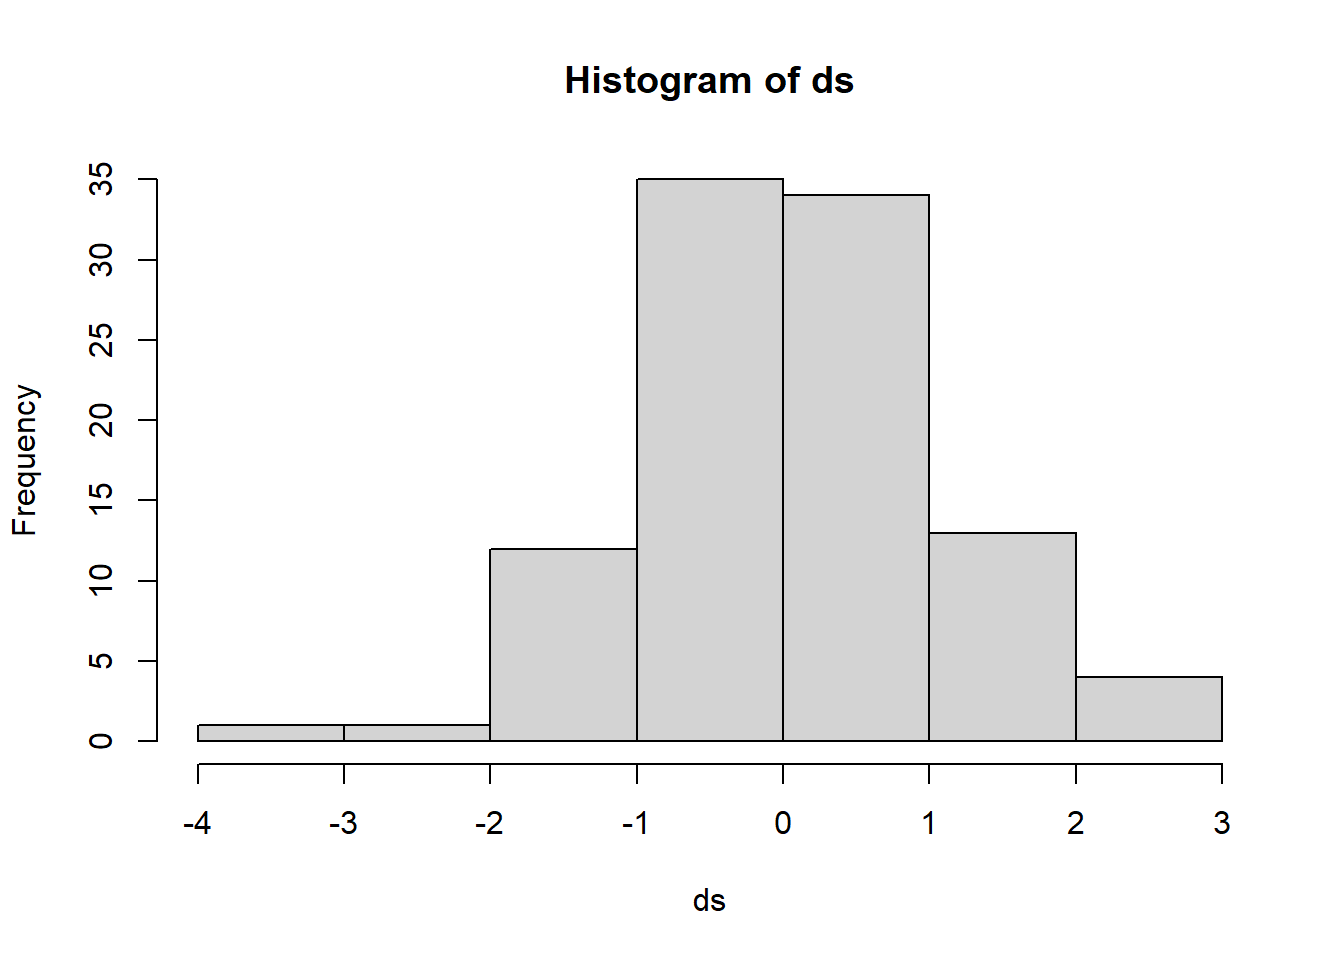
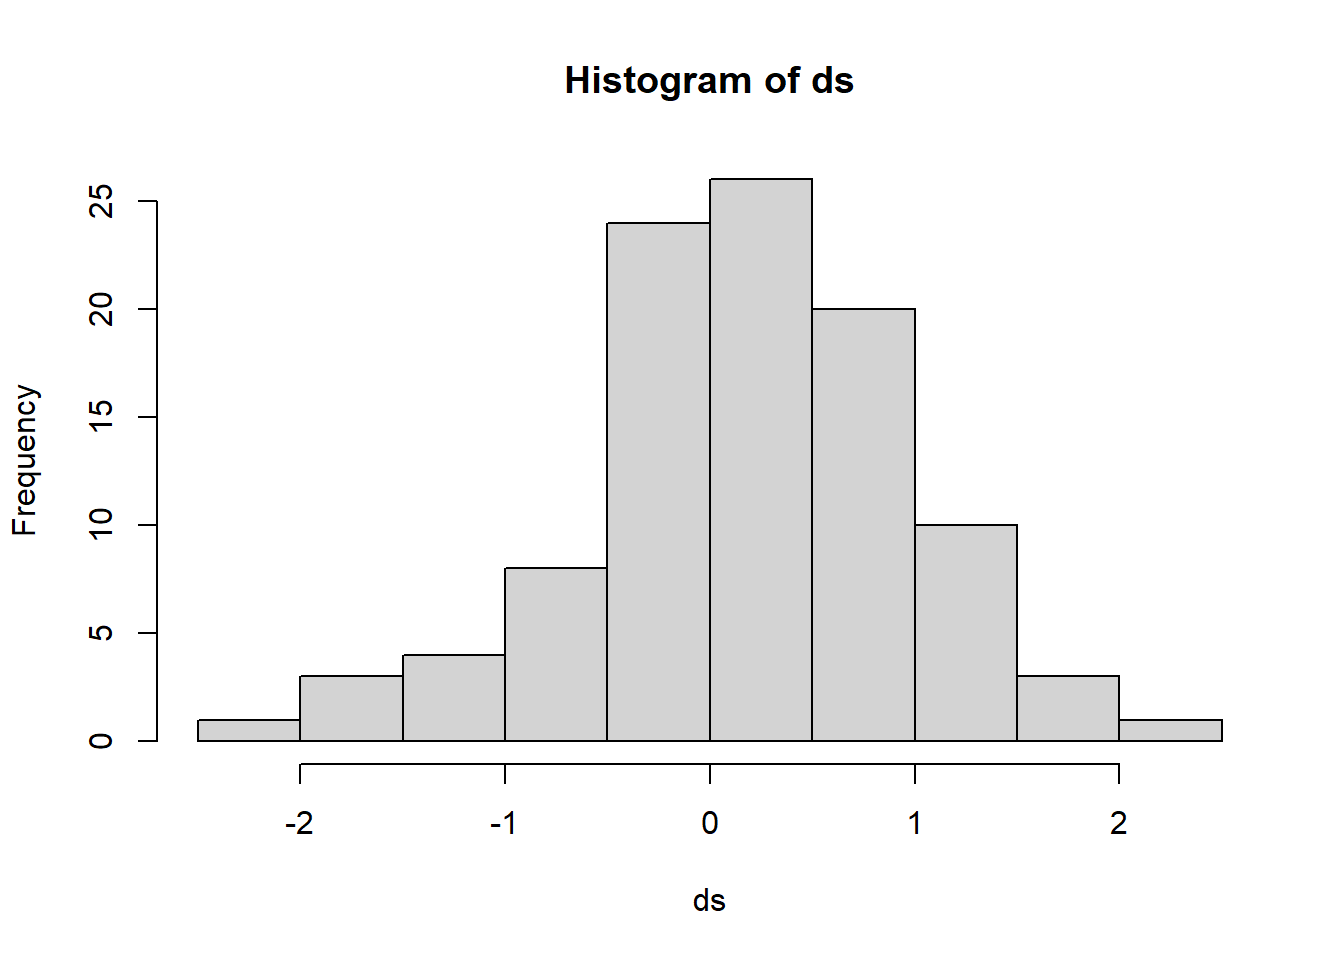
Built site for gh-pages

diff --git a/index.html b/index.html
@@ -105,9 +105,6 @@ ul.task-list li input[type="checkbox"] {
     <div class="pt-lg-2 mt-2 text-left sidebar-header">
     <div class="sidebar-title mb-0 py-0">
       <a href="./">數理統計</a> 
-        <div class="sidebar-tools-main">
-    <a href="./數理統計.pdf" title="Download PDF" class="quarto-navigation-tool px-1" aria-label="Download PDF"><i class="bi bi-file-pdf"></i></a>
-</div>
     </div>
       </div>
         <div class="mt-2 flex-shrink-0 align-items-center">

diff --git a/01-probability.html b/01-probability.html
@@ -169,9 +169,6 @@ window.Quarto = {
     <div class="pt-lg-2 mt-2 text-left sidebar-header">
     <div class="sidebar-title mb-0 py-0">
       <a href="./">數理統計</a> 
-        <div class="sidebar-tools-main">
-    <a href="./數理統計.pdf" title="Download PDF" class="quarto-navigation-tool px-1" aria-label="Download PDF"><i class="bi bi-file-pdf"></i></a>
-</div>
     </div>
       </div>
         <div class="mt-2 flex-shrink-0 align-items-center">

diff --git a/02-multivariate.html b/02-multivariate.html
@@ -134,9 +134,6 @@ window.Quarto = {
     <div class="pt-lg-2 mt-2 text-left sidebar-header">
     <div class="sidebar-title mb-0 py-0">
       <a href="./">數理統計</a> 
-        <div class="sidebar-tools-main">
-    <a href="./數理統計.pdf" title="Download PDF" class="quarto-navigation-tool px-1" aria-label="Download PDF"><i class="bi bi-file-pdf"></i></a>
-</div>
     </div>
       </div>
         <div class="mt-2 flex-shrink-0 align-items-center">

diff --git a/03-special-distributions.html b/03-special-distributions.html
@@ -134,9 +134,6 @@ window.Quarto = {
     <div class="pt-lg-2 mt-2 text-left sidebar-header">
     <div class="sidebar-title mb-0 py-0">
       <a href="./">數理統計</a> 
-        <div class="sidebar-tools-main">
-    <a href="./數理統計.pdf" title="Download PDF" class="quarto-navigation-tool px-1" aria-label="Download PDF"><i class="bi bi-file-pdf"></i></a>
-</div>
     </div>
       </div>
         <div class="mt-2 flex-shrink-0 align-items-center">

diff --git a/04-sampling-inference.html b/04-sampling-inference.html
@@ -134,9 +134,6 @@ window.Quarto = {
     <div class="pt-lg-2 mt-2 text-left sidebar-header">
     <div class="sidebar-title mb-0 py-0">
       <a href="./">數理統計</a> 
-        <div class="sidebar-tools-main">
-    <a href="./數理統計.pdf" title="Download PDF" class="quarto-navigation-tool px-1" aria-label="Download PDF"><i class="bi bi-file-pdf"></i></a>
-</div>
     </div>
       </div>
         <div class="mt-2 flex-shrink-0 align-items-center">

diff --git a/05-asymptotics.html b/05-asymptotics.html
@@ -134,9 +134,6 @@ window.Quarto = {
     <div class="pt-lg-2 mt-2 text-left sidebar-header">
     <div class="sidebar-title mb-0 py-0">
       <a href="./">數理統計</a> 
-        <div class="sidebar-tools-main">
-    <a href="./數理統計.pdf" title="Download PDF" class="quarto-navigation-tool px-1" aria-label="Download PDF"><i class="bi bi-file-pdf"></i></a>
-</div>
     </div>
       </div>
         <div class="mt-2 flex-shrink-0 align-items-center">

diff --git a/06-likelihood.html b/06-likelihood.html
@@ -134,9 +134,6 @@ window.Quarto = {
     <div class="pt-lg-2 mt-2 text-left sidebar-header">
     <div class="sidebar-title mb-0 py-0">
       <a href="./">數理統計</a> 
-        <div class="sidebar-tools-main">
-    <a href="./數理統計.pdf" title="Download PDF" class="quarto-navigation-tool px-1" aria-label="Download PDF"><i class="bi bi-file-pdf"></i></a>
-</div>
     </div>
       </div>
         <div class="mt-2 flex-shrink-0 align-items-center">

diff --git a/07-sufficiency.html b/07-sufficiency.html
@@ -133,9 +133,6 @@ window.Quarto = {
     <div class="pt-lg-2 mt-2 text-left sidebar-header">
     <div class="sidebar-title mb-0 py-0">
       <a href="./">數理統計</a> 
-        <div class="sidebar-tools-main">
-    <a href="./數理統計.pdf" title="Download PDF" class="quarto-navigation-tool px-1" aria-label="Download PDF"><i class="bi bi-file-pdf"></i></a>
-</div>
     </div>
       </div>
         <div class="mt-2 flex-shrink-0 align-items-center">
